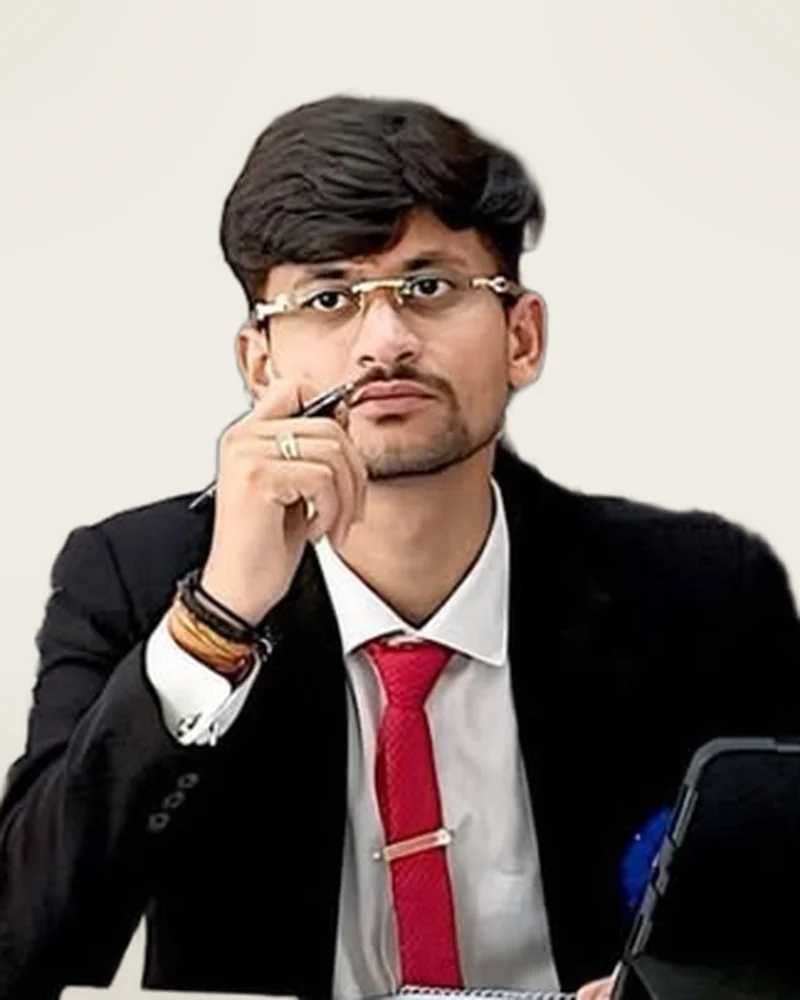
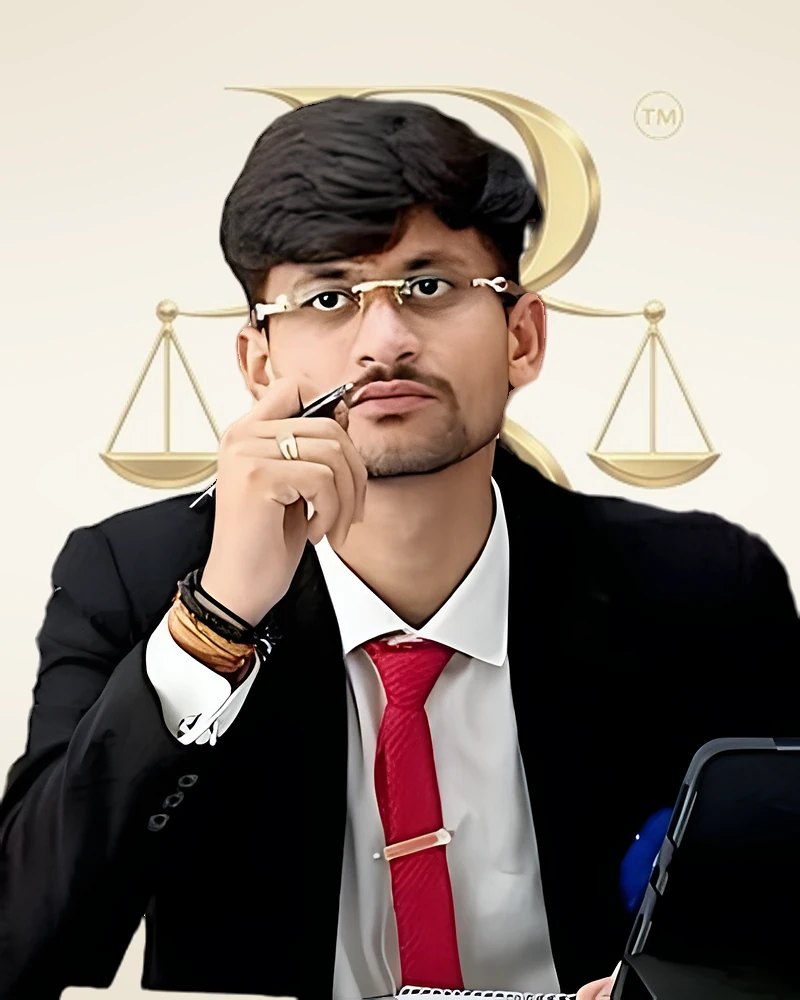
Headshots for all seven advocates on the branded cream background
Client photos upscaled with Real-ESRGAN, background removed, colour
corrected against the white shirt, and set on the cream ground with the
gold PS mark at 60%. Adds Manoj, Kavita, Abhishek and Aditya, and
replaces the earlier grey-backdrop versions of Rajwardhan, Bhavesh and
Pankaj. No advocate shows the initials monogram any more.

diff --git a/src/lib/people-data.ts b/src/lib/people-data.ts
@@ -16,10 +16,9 @@ export interface PersonRecord {
   bio: string[]
   bioHi: string[]
   /**
-   * Real headshot path under /public/team (4:5, 800×1000, background replaced
-   * with a neutral studio backdrop). Advocates without a client-supplied photo
-   * are shown as an initials monogram (client decision, Oct 2026) — the casual
-   * stock portraits previously used were rejected in review.
+   * Real headshot path under /public/team: client-supplied photo, AI-upscaled,
+   * background replaced with the cream ground and the gold PS mark at 60%
+   * (4:5, 800×1000). Without one the advocate is shown as an initials monogram.
    */
   photo?: string
 }
@@ -160,6 +159,7 @@ export const people: PersonRecord[] = [
   {
     slug: 'manoj-garg',
     name: 'Manoj Garg',
+    photo: '/team/manoj-garg.webp',
     role: 'Senior Associate',
     roleHi: 'वरिष्ठ सहयोगी अधिवक्ता',
     designation: 'Branch Head, Sardarpur, Dhar (Dist.)',
@@ -180,6 +180,7 @@ export const people: PersonRecord[] = [
   {
     slug: 'kavita-sharma',
     name: 'Kavita Sharma',
+    photo: '/team/kavita-sharma.webp',
     role: 'Associate',
     roleHi: 'सहयोगी अधिवक्ता',
     designation: 'State Government Matters',
@@ -200,6 +201,7 @@ export const people: PersonRecord[] = [
   {
     slug: 'abhishek-mantri',
     name: 'Abhishek Mantri',
+    photo: '/team/abhishek-mantri.webp',
     role: 'Associate',
     roleHi: 'सहयोगी अधिवक्ता',
     practiceTags: ['Corporate Law', 'Regulatory & Advisory', 'Debt Recovery & Management'],
@@ -218,6 +220,7 @@ export const people: PersonRecord[] = [
   {
     slug: 'aditya-bharti',
     name: 'Aditya Bharti',
+    photo: '/team/aditya-bharti.webp',
     role: 'Associate',
     roleHi: 'सहयोगी अधिवक्ता',
     practiceTags: ['Litigation', 'Cyber Law & Data Privacy', 'Family & Matrimonial'],
